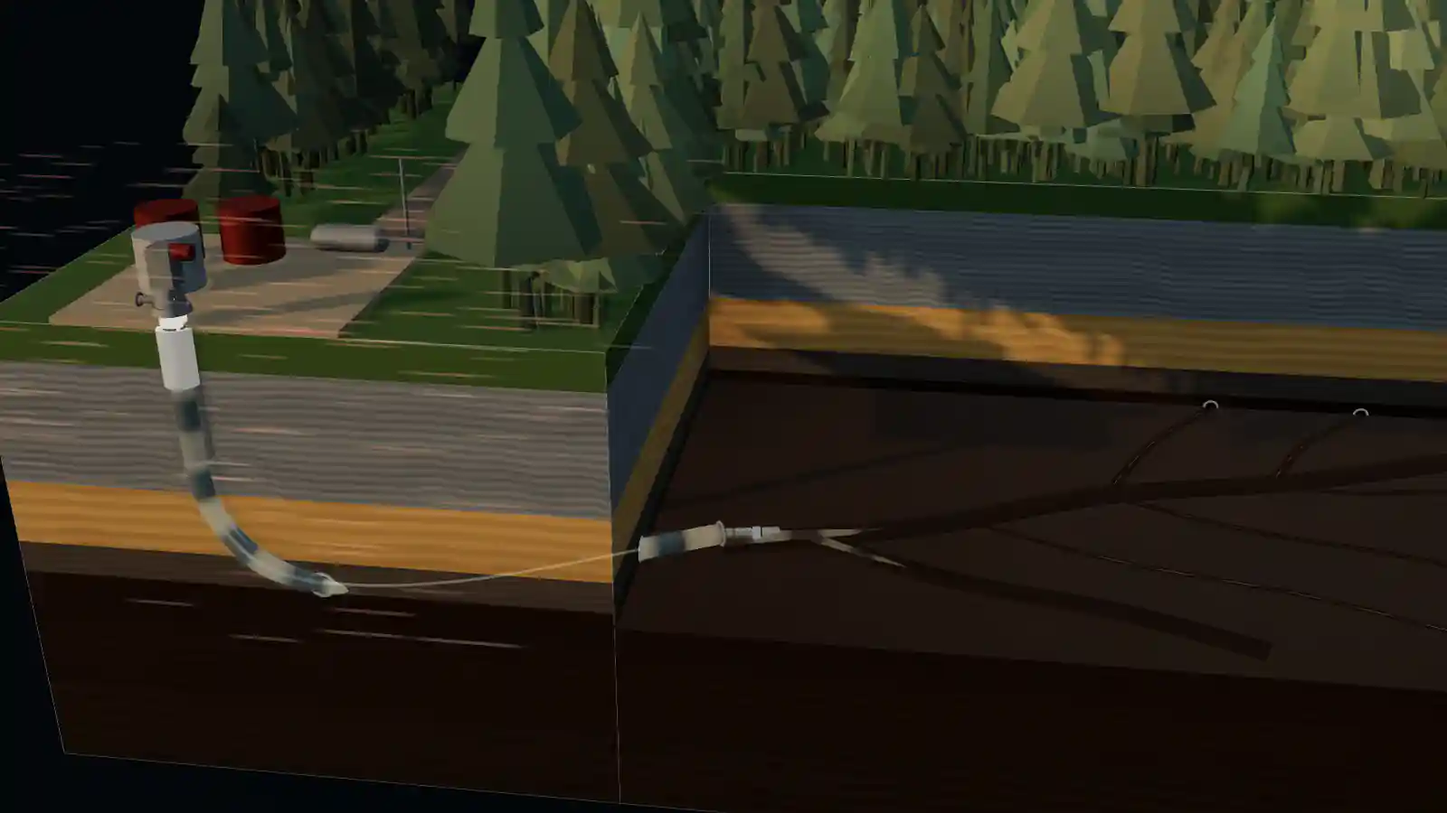
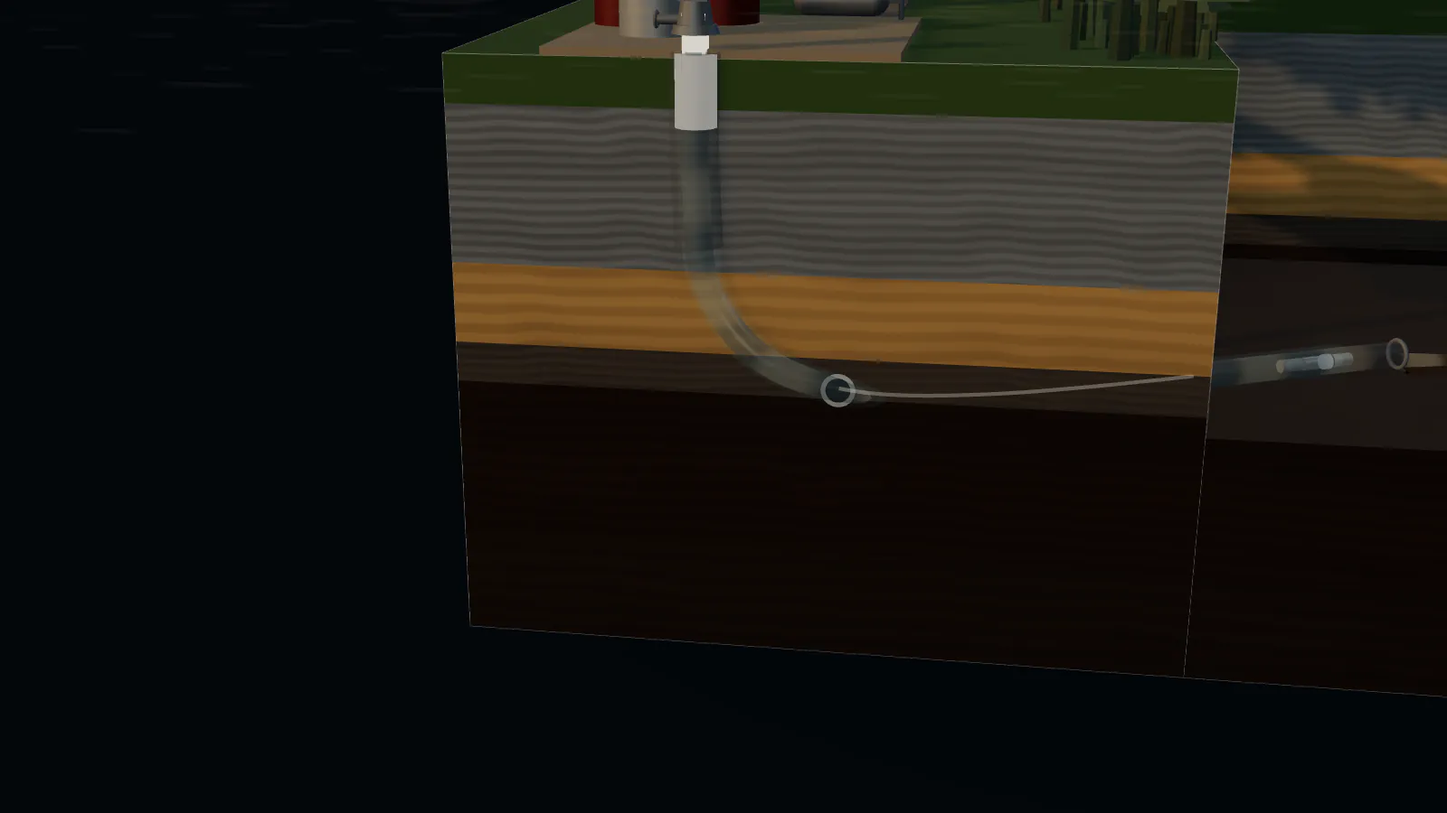
feat(hero): round-11 — Kyle's chapter-0 walkthrough fixes + formation truth pass
- hero CTA pair removed (header CHECK YOUR WELL FIT appears on scroll, side rail + qualifier
  own the paths); chips row carries the closing beat, mobile stack rebalanced
- Yotin header logomark in colour: warm brand stroke full colour, cool stroke sand pre-signal
  via a fitted feColorMatrix (#yotin-presignal) - the teal still ARRIVES when the circuit
  closes; one-shot 880ms load animation (mark wipe + staggered copy), reduced-motion and
  stills-path safe
- OHML fishbone legible in ch0: bore-rim and leg/trunk albedo lifted, chevrons warmed, flow
  multipliers 0.35/0.25 -> 0.45/0.42 - no emissive, dark chapters untouched
- WellFi now sits INSIDE the intermediate (Kyle's authored placement): the shoe was landed
  deeper past the tool (heel moved down-trunk) so the collar stays within 0.06 units of every
  authored pose; standoff measures exactly 10.0% of the intermediate - the qualifier's own
  rule read from the other end; boot bug fixed (null landing no longer proposed open hole);
  COUPLING gains inside-intermediate 0.45; rail tally renamed "WellFi - in casing" and
  reordered as a true depth tally
- formation labels corrected for the Clearwater fairway (completions-engineer verified,
  Kyle's strat column confirms): Ellerslie -> McMurray (Lower Mannville) [the must-fix],
  Colorado Shale -> Colorado Gp - Joli Fou Shale (seal), Middle Mudstone -> Clearwater
  Mudstone; Grand Rapids deliberately omitted (Kyle's call, schematic qualifier covers it)
[…]

diff --git a/src/world/wellPath.js b/src/world/wellPath.js
@@ -12,10 +12,17 @@ export const RADII = { surfaceCollar: 0.175, casedShell: 0.127, cased: 0.100, op
 export const Z_FACE = 5; // front cut face — the cased bore rides ON it (half-proud)
 export const BORE_LIFT = 0.0; // bore centreline ON the bench plane (spec §3) — the trough is drawn as a flattened dark slot, not a raised mound
 
-export const WELLFI_VIEW_IDS = ['outside-intermediate', 'below-pump'];
-export const DEFAULT_WELLFI_VIEW = 'outside-intermediate';
-export const WELLFI_BELOW_PUMP_CASING_PARAM = 0.5;   // inside the 7-in string
-export const WELLFI_OUTSIDE_INTERMEDIATE_PARAM = 0.03; // on the open-hole trunk at the heel
+export const WELLFI_VIEW_IDS = ['inside-intermediate', 'below-pump', 'outside-intermediate'];
+// Round 11 (Kyle, lead design decision): the landing page shows WellFi INSIDE the intermediate — on the
+// tubing above the shoe — not in open hole below it. The collar did not move in world space (chapters 2–4 are
+// authored around it, chapter 2 is an fov-18 close-up on it); the intermediate was landed deeper instead, so
+// the heel/shoe now sits ~10 % of the intermediate's length BELOW the collar. That is the same standoff rule
+// the qualifier states ("roughly 10 % of the intermediate's length of standoff above the shoe"), read from the
+// other end.
+export const DEFAULT_WELLFI_VIEW = 'inside-intermediate';
+export const WELLFI_INSIDE_INTERMEDIATE_PARAM = 0.90; // on the cased string, the standoff line above the shoe
+export const WELLFI_BELOW_PUMP_CASING_PARAM = 0.5;   // inside the 7-in string, below a shallow pump landing
+export const WELLFI_OUTSIDE_INTERMEDIATE_PARAM = 0.03; // on the open-hole trunk, just below the shoe (the "deeper" answer)
 
 const v = (x, y, z) => new Vector3(x, y, z);
 
@@ -57,7 +64,9 @@ function crossing(curve, plane, samples = 200, axis = 'z') {
 
 export function buildWellPaths() {
   const wellhead = v(-5.2, 0.05, Z_FACE);
-  const heel = v(-0.9, BENCH_Y + 0.12, 3.4);
+  // The heel is where the intermediate lands. It sits down the trunk far enough that the authored collar
+  // (cased u = 0.90) has ~10 % of the intermediate's length of standoff above the shoe (round 11).
+  const heel = v(0.03, BENCH_Y + 0.12, 3.04);
   const cased = new CatmullRomCurve3([
     wellhead.clone(), v(-5.2, -0.9, Z_FACE), v(-5.08, -1.7, Z_FACE), v(-4.45, -2.25, Z_FACE), v(-3.1, heel.y, 4.6), heel.clone(),
   ], false, 'catmullrom', 0.5);
@@ -81,6 +90,7 @@ export function buildWellPaths() {
 
   const shoe = cased.getPointAt(1);
   const wellfiTools = {
+    insideIntermediate: toolAnchor(cased, WELLFI_INSIDE_INTERMEDIATE_PARAM),
     outsideIntermediate: toolAnchor(openHole, WELLFI_OUTSIDE_INTERMEDIATE_PARAM),
     belowPump: toolAnchor(cased, WELLFI_BELOW_PUMP_CASING_PARAM),
   };
@@ -113,5 +123,6 @@ export function buildWellPaths() {
 
 export function getWellFiPlacement(paths, view) {
   if (view === 'below-pump') return { ...paths.wellfiTools.belowPump, id: 'below-pump', label: 'WellFi', tone: 'primary' };
-  return { ...paths.wellfiTools.outsideIntermediate, id: 'outside-intermediate', label: 'WellFi', tone: 'primary' };
+  if (view === 'outside-intermediate') return { ...paths.wellfiTools.outsideIntermediate, id: 'outside-intermediate', label: 'WellFi', tone: 'primary' };
+  return { ...paths.wellfiTools.insideIntermediate, id: 'inside-intermediate', label: 'WellFi', tone: 'primary' };
 }

diff --git a/styles.css b/styles.css
@@ -169,6 +169,30 @@ a { color: inherit; text-decoration: none; }
   line-height: 1;
   letter-spacing: 0.04em;
 }
+/* First paint only (Kyle, round 11): the wind strokes wipe in left-to-right — the direction the mark reads —
+   and the wordmark and tagline follow. Time-based, one shot, no idle loop, done in 900 ms. It is a pure CSS
+   entrance so it costs nothing on the world path and nothing to the stills path's byte budget; both the
+   reduced-motion query and html.stills-on switch it off entirely. */
+@media (prefers-reduced-motion: no-preference) {
+  /* fill: backwards, never forwards — .site-header[data-scrolled] .brand-mini-copy small { opacity: 0 }
+     must keep winning once the entrance has finished. */
+  .brand-mini img { animation: yotin-mark-in 760ms cubic-bezier(0.16, 1, 0.3, 1) backwards; }
+  .brand-mini-copy strong { animation: yotin-brand-rise 520ms cubic-bezier(0.16, 1, 0.3, 1) 240ms backwards; }
+  .brand-mini-copy small { animation: yotin-brand-rise 520ms cubic-bezier(0.16, 1, 0.3, 1) 360ms backwards; }
+}
+html.stills-on .brand-mini img,
+html.stills-on .brand-mini-copy strong,
+html.stills-on .brand-mini-copy small { animation: none; }
+@keyframes yotin-mark-in {
+  from { opacity: 0; clip-path: inset(0 100% 0 0); }
+  40%  { opacity: 1; }
+  to   { opacity: 1; clip-path: inset(0 0 0 0); }
+}
+@keyframes yotin-brand-rise {
+  from { opacity: 0; transform: translateY(5px); }
+  to   { opacity: 1; transform: none; }
+}
+
 .site-header[data-scrolled] .brand-mini { transform: scale(0.86); transform-origin: left center; }
 .site-header[data-scrolled] .brand-mini-copy small { opacity: 0; }
 
@@ -289,7 +313,10 @@ a { color: inherit; text-decoration: none; }
   flex-wrap: wrap;
   gap: 8px;
   max-width: 560px;
-  margin: 26px 0 0;
+  /* Last row of the hero block since the duplicated CTA pair came out (round 11):
+     it carries the breathing the buttons used to provide, so the copy column still
+     lands as a composed stack rather than stopping short. */
+  margin: 30px 0 6px;
   padding: 0;
   list-style: none;
 }
@@ -311,7 +338,6 @@ a { color: inherit; text-decoration: none; }
 }
 .proof-chips i { color: var(--ember); font-size: 15px; }
 
-.hero-actions { display: flex; flex-wrap: wrap; gap: 16px; margin-top: 32px; }
 
 .button {
   min-height: 58px;
@@ -333,17 +359,6 @@ a { color: inherit; text-decoration: none; }
 .button-primary:hover { background: var(--ember-lit); box-shadow: 0 12px 34px -14px rgba(242, 118, 34, 0.9); }
 .button-secondary { border-color: var(--line-strong); background: rgba(3, 7, 11, 0.55); color: var(--sand); }
 .button-secondary:hover { border-color: var(--sand); color: var(--white); }
-
-.hero-actions .button {
-  min-width: 236px;
-  min-height: 62px;
-  border-radius: 2px;
-  font-family: var(--font-mono);
-  font-size: 14px;
-  font-weight: 600;
-  letter-spacing: 0.08em;
-  text-transform: uppercase;
-}
 
 /* Scene ------------------------------------------------------------------ */
 
@@ -1784,8 +1799,6 @@ a { color: inherit; text-decoration: none; }
 }
 
 @media (max-width: 560px) {
-  .hero-actions { flex-direction: column; align-items: stretch; }
-  .hero-actions .button { width: 100%; min-width: 0; }
   .hero-message h1 { font-size: clamp(42px, 12.5vw, 56px); }
   .proof-chips { max-width: 100%; }
   .hero-scene { width: 880px; right: -330px; }

diff --git a/test/world-geometry.test.js b/test/world-geometry.test.js
@@ -67,11 +67,23 @@ describe('well geometry', () => {
     assert.ok(casedMouth && casedMouth.plane === 'left', 'cased bore mouth on the notch wall');
     assert.ok(Math.abs(casedMouth.point.x - layout.NOTCH.minX) < 0.03);
   });
-  test('the candle (default view) is at the open-hole anchor, on the bench near the x = -1.6 wall', () => {
+  // Round 11 (Kyle): the landing page shows WellFi INSIDE the intermediate. The collar stayed put in world
+  // space (chapter 2 is an fov-18 close-up on it); the intermediate was landed deeper so the shoe is now below
+  // it, with the standoff the qualifier states.
+  test('the candle (default view) is inside the intermediate, on the bench near the x = -1.6 wall', () => {
     const p = wellPath.getWellFiPlacement(paths, wellPath.DEFAULT_WELLFI_VIEW);
-    assert.equal(p.id, 'outside-intermediate');
+    assert.equal(p.id, 'inside-intermediate');
     assert.ok(p.position.x > layout.NOTCH.minX && p.position.x < layout.NOTCH.minX + 1.2, `x ${p.position.x}`);
     assert.ok(Math.abs(p.position.y - (layout.BENCH_Y + 0.12)) < 0.1);
+  });
+  test('the default collar sits above the shoe with ~10 % of the intermediate as standoff', () => {
+    const p = wellPath.getWellFiPlacement(paths, wellPath.DEFAULT_WELLFI_VIEW);
+    const standoff = paths.cased.getLength() * (1 - wellPath.WELLFI_INSIDE_INTERMEDIATE_PARAM);
+    assert.ok(Math.abs(standoff / paths.cased.getLength() - 0.10) < 0.02, `standoff share ${standoff / paths.cased.getLength()}`);
+    assert.ok(p.position.distanceTo(paths.shoe) > 0.5, 'the collar is clear of the shoe');
+    // and the "deeper" answer still puts the collar BELOW the shoe, in open hole
+    const outside = wellPath.getWellFiPlacement(paths, 'outside-intermediate');
+    assert.ok(outside.position.x > paths.shoe.x, 'outside-intermediate is past the shoe, down the open-hole trunk');
   });
   test('the below-pump placement is inside the intermediate string on the front face', () => {
     const p = wellPath.getWellFiPlacement(paths, 'below-pump');
@@ -90,6 +102,16 @@ describe('chapter 6 pump marker vs the standoff line', () => {
   test('PUMP_U.deeper > STANDOFF_U > PUMP_U.shallower', () => {
     assert.ok(builder.PUMP_U.deeper > builder.STANDOFF_U, `deeper ${builder.PUMP_U.deeper} must be below the standoff line ${builder.STANDOFF_U}`);
     assert.ok(builder.STANDOFF_U > builder.PUMP_U.shallower, `shallower ${builder.PUMP_U.shallower} must be above the standoff line ${builder.STANDOFF_U}`);
+  });
+  // wellBuilder.js may not import the world modules (one-chunk budget), so it RESTATES the authored default
+  // placement. If the two drift, an unanswered qualifier silently re-proposes the open-hole configuration.
+  test('wellBuilder restates the authored default placement', () => {
+    const fs = require('node:fs');
+    const path = require('node:path');
+    const src = fs.readFileSync(path.join(__dirname, '..', 'src', 'world', 'wellBuilder.js'), 'utf8');
+    const m = src.match(/const DEFAULT_VIEW = '([a-z-]+)'/);
+    assert.ok(m, 'wellBuilder DEFAULT_VIEW not found');
+    assert.equal(m[1], wellPath.DEFAULT_WELLFI_VIEW);
   });
   test('the 3D marker uses the same parameters as the downloaded schematic', () => {
     const fs = require('node:fs');

diff --git a/src/world/layout.js b/src/world/layout.js
@@ -19,12 +19,12 @@ export const BENCH_Y = PAY_TOP - 0.15; // -2.55
 // Colours follow the Bluesky-derived material discipline (near-black wet bitumen pay, sharp cut, no bevels).
 export const STRATA = [
   { name: 'topsoil',        label: 'Boreal topsoil',        topY: 0.0,   bottomY: -0.35, color: '#3f5a2e', roughness: 0.95 },
-  { name: 'colorado',       label: 'Colorado Shale (seal)', topY: -0.35, bottomY: -1.5,  color: '#6f787e', roughness: 0.9,  bed: { freq: 38, depth: 0.34, phase: 0.0 } },
+  { name: 'colorado',       label: 'Colorado Gp — Joli Fou Shale (seal)', topY: -0.35, bottomY: -1.5,  color: '#6f787e', roughness: 0.9,  bed: { freq: 38, depth: 0.34, phase: 0.0 } },
   { name: 'upperSand',      label: 'Clearwater Upper Sand', topY: -1.5,  bottomY: -2.1,  color: '#a8874f', roughness: 0.92, bed: { freq: 22, depth: 0.24, phase: 1.1 } },
-  { name: 'middleMudstone', label: 'Middle Mudstone',       topY: -2.1,  bottomY: PAY_TOP, color: '#4a4540', roughness: 0.88, bed: { freq: 44, depth: 0.3, phase: 0.6 } },
+  { name: 'middleMudstone', label: 'Clearwater Mudstone',       topY: -2.1,  bottomY: PAY_TOP, color: '#4a4540', roughness: 0.88, bed: { freq: 44, depth: 0.3, phase: 0.6 } },
   { name: 'lowerSand',      label: 'Clearwater Lower Sand', topY: PAY_TOP, bottomY: -3.6, color: '#2b1e14', roughness: 0.45, bed: { freq: 26, depth: 0.22, phase: 2.3 } },
 ];
-export const LOWER = { name: 'ellerslie', label: 'Ellerslie', topY: -3.6, bottomY: SLAB.baseY, color: '#241a10', roughness: 0.6, bed: { freq: 20, depth: 0.28, phase: 0.6 } };
+export const LOWER = { name: 'ellerslie', label: 'McMurray (Lower Mannville)', topY: -3.6, bottomY: SLAB.baseY, color: '#241a10', roughness: 0.6, bed: { freq: 20, depth: 0.28, phase: 0.6 } };
 
 // The Colorado seal band — the conductive bed that flattens and dims the field above it (spec §3, field).
 export const SEAL = { topY: STRATA[1].topY, bottomY: STRATA[1].bottomY };
@@ -59,7 +59,11 @@ export const COLORS = {
   casing: '#6b7d8a',
   casingShell: '#7dd3e8',
   trough: '#0f0a07',      // dark rock-walled open-hole bore (negative), not a pipe — darker than the bench (#3a2a1e)
-  boreRim: '#241911',     // rock lip along an exposed bore — ≈ 0.6× the bench albedo so the slot reads as shadow, not a sand strip
+  // Rock lip along an exposed bore. Round 11 (Kyle: "it is hard to see the OHML fishbone, it is quite dark"):
+  // at 0.6× the bench albedo the six laterals disappeared in the chapter-0 pose — the raking golden-hour key
+  // had nothing to catch. Raised to ≈ bench albedo, so the lip's curved crown is what draws the fishbone while
+  // the trough inside it stays the dark slot. Albedo only — no emissive — so the darkest chapters are unchanged.
+  boreRim: '#3c2c1e',
   void: '#03070b',
   sunWarm: '#ffd9a8',
   goldenHour: '#ffc98a',

diff --git a/src/world/wellBuilder.js b/src/world/wellBuilder.js
@@ -21,6 +21,7 @@ export const FOG_WARM = '#140c07';
 export const PUMP_U = { shallower: 0.42, deeper: 0.96 };
 export const STANDOFF_U = 0.9;                     // relative — "10 % of intermediate" above the shoe
 const WITNESS_COOL = '#d9e5ef', WITNESS_WARM = '#e6c9a6';
+const DEFAULT_VIEW = 'inside-intermediate';        // wellPath.DEFAULT_WELLFI_VIEW (restated: no world imports here)
 
 // Derive the handful of three.js classes from objects the island already holds (no 'three' import here).
 export function threeFromWorld(island) {
@@ -131,7 +132,11 @@ export function createWellBuilder(island, THREE, { scene = null } = {}) {
   };
 
   // Collar glides separately into the proposed configuration (island.setView snaps; we ease from the old pose).
-  function anchorFor(view) { return view === 'below-pump' ? paths.wellfiTools.belowPump : paths.wellfiTools.outsideIntermediate; }
+  function anchorFor(view) {
+    if (view === 'below-pump') return paths.wellfiTools.belowPump;
+    if (view === 'outside-intermediate') return paths.wellfiTools.outsideIntermediate;
+    return paths.wellfiTools.insideIntermediate;
+  }
   function moveTool(view) {
     if (island.state.view === view) return;
     glide.from.copy(tool.group.position); glide.q0.copy(tool.group.quaternion);
@@ -175,12 +180,17 @@ export function createWellBuilder(island, THREE, { scene = null } = {}) {
   // Coupling: the caption for a shallower landing says "inside casing — attenuated coupling", so the world has to
   // show it. Steel around the emitter shorts a large part of the dipole; open hole couples straight into the
   // formation. This is the ratio the candle and the field are scaled by (round 7, engineering-truth review).
-  const COUPLING = { 'below-pump': 0.45, 'outside-intermediate': 1 };
+  // 'inside-intermediate' is the authored landing-page placement (round 11) and is steel-shorted like
+  // 'below-pump': both sit on the tubing inside the intermediate.
+  const COUPLING = { 'inside-intermediate': 0.45, 'below-pump': 0.45, 'outside-intermediate': 1 };
   let coupling = 1;
   function applyLanding(landing, hasLength) {
     standoff.visible = Boolean(hasLength) || Boolean(landing);
     placeMarker(landing);
-    const view = landing === 'shallower' ? 'below-pump' : 'outside-intermediate';
+    // Unanswered means unanswered: with no landing the collar stays at the AUTHORED landing-page placement —
+    // inside the intermediate (round 11). Before this it fell through to 'outside-intermediate' on every reset,
+    // so the world quietly proposed the open-hole configuration to a visitor who had answered nothing.
+    const view = landing == null ? DEFAULT_VIEW : (landing === 'shallower' ? 'below-pump' : 'outside-intermediate');
     coupling = COUPLING[view];
     moveTool(view);
   }

diff --git a/index.html b/index.html
@@ -232,6 +232,21 @@
 
 <body id="top" data-chatfi-api="https://chatfi-server-851855129205.us-central1.run.app">
   <a class="skip-link" href="#main">Skip to content</a>
+  <!-- Pre-signal Yotin logomark filter (spec §13b, one-candle rule). The brand mark is two wind strokes: a
+       warm one (#EC6B24 — the brand's own ember) and a cool one (#3FB4C3 teal). Cyan/teal in the logomark is
+       reserved for AFTER the circuit closes, so before the signal arrives the mark renders its WARM half in
+       full brand colour and its COOL half in sand. This is a single linear colour map (no offsets, sRGB), fitted
+       so brand-orange maps to itself, brand-teal maps to sand #d5c9b3, and white maps to white — which makes
+       every antialiased pixel between them land correctly, and leaves the dark keyline dark. When
+       html.signal-received is set the filter is dropped and the teal arrives. -->
+  <svg class="brand-filter" aria-hidden="true" focusable="false" width="0" height="0" style="position:absolute;width:0;height:0;overflow:hidden">
+    <filter id="yotin-presignal" color-interpolation-filters="sRGB">
+      <feColorMatrix type="matrix" values="-0.67137  4.70810 -3.03672 0 0
+                                           -0.23399  1.65913 -0.42514 0 0
+                                            0.17828 -0.50220  1.32392 0 0
+                                            0        0        0       1 0"/>
+    </filter>
+  </svg>
   <div class="scroll-rail" aria-hidden="true"></div>
   <!-- The persistent world: one fixed canvas behind the semantic DOM (spec §2). Decorative — every word,
        control and claim lives in the DOM below. Hidden unless the capability gate stamps html.world-on. -->
@@ -316,12 +331,9 @@
               <li><i class="ph ph-plugs" aria-hidden="true"></i> MODBUS Ready</li>
               <li><i class="ph ph-lightning" aria-hidden="true"></i> Rapid Deployment</li>
             </ul>
-            <!-- Primary CTA points at the qualifier, not at a scroll anchor:
-                 a hero button that only scrolls 400px converts nothing. -->
-            <div class="hero-actions" data-hero-step>
-              <a class="button button-primary" href="#contact">Check your well fit <i class="ph ph-arrow-right" aria-hidden="true"></i></a>
-              <a class="button button-secondary" href="#wellfi">Explore WellFi <i class="ph ph-arrow-right" aria-hidden="true"></i></a>
-            </div>
+            <!-- No hero CTA row (round 11, Kyle): the header's CHECK YOUR WELL FIT and ASK CHATFI are the
+                 one-click paths from any scroll position, and the qualifier owns the bottom of the page. A
+                 duplicated pair here only pushed the chips down and stole the eye from the world. -->
           </div>
         </div>
 

diff --git a/src/chapters.js b/src/chapters.js
@@ -18,7 +18,7 @@ export const CHAPTERS = [
 ];
 
 // Camera poses (9): one per chapter, two for signal (collar → the surface references once the circuit stage is in view), two for deployment. Targets: the candle at the heel ≈ (-0.67,-2.43,3.32)
-// (chapters 2 and 4 aim here — the tool lives at the open-hole anchor), wellhead (-5.2, 0.05, 5).
+// (chapters 2 and 4 aim here — the tool lives at the inside-intermediate anchor, cased u 0.90, since Kyle's ch0 direction; the shoe was landed deeper past it so this target never moved), wellhead (-5.2, 0.05, 5).
 export const POSES = [
   { id: 'surface',      position: [27.8, 22.0, 30.9], target: [-1.8, -1.3, 2.2],  fov: 20, mobile: { position: [24.0, 22.5, 30.5], target: [-1.2, -3.2, 2.2], fov: 30 } },
   { id: 'descent',      position: [-0.2, 2.3, 15.2],  target: [-4.9, -1.2, 5.0],  fov: 28, mobile: { position: [-0.6, 1.4, 16.5], target: [-4.9, -2.4, 5.0], fov: 38 } },
@@ -30,7 +30,7 @@ export const POSES = [
   { id: 'deployment-a', position: [-0.8, -0.4, 12.3], target: [-6.0, -2.1, 5.4],  fov: 26, mobile: { position: [-1.6, -1.2, 12.5], target: [-4.4, -3.4, 5.2], fov: 34 } }, // the instrument: cased string u 0.3–0.55 on the front face, landing right of centre (round 2)
   { id: 'deployment-b', position: [4.6, 1.2, 15.8],   target: [0.6, -2.5, 2.4],   fov: 28, mobile: { position: [4.0, 2.0, 21.0], target: [0.4, -2.8, 2.4], fov: 38 } },
   { id: 'yotin',        position: [-6.5, 8.0, 15.0],  target: [-4.6, -0.3, 3.6],  fov: 34, mobile: { position: [-6.0, 5.8, 19.5], target: [-4.6, -1.2, 3.6], fov: 44 } }, // the pad + wind in the upper 60 vh band, paper below (round 2) // lower, flatter: the island low in the rise band, strokes read as wind over the pad (round 2)
-  { id: 'fit',          position: [-3.0, 1.5, 17.0],  target: [-5.0, -2.5, 5.0],  fov: 26, mobile: { position: [-2.6, 1.9, 20.5], target: [-4.6, -2.9, 5.0], fov: 36 } }, // BOTH proposed placements are framed in the free right column — inside-the-tubing (-3.83,-2.38,4.86) and the open-hole anchor (-0.67,-2.45,3.32) — so the verdict's candle never lands behind the qualifier column (pose search, round 6)
+  { id: 'fit',          position: [-3.0, 1.5, 17.0],  target: [-5.0, -2.5, 5.0],  fov: 26, mobile: { position: [-2.6, 1.9, 20.5], target: [-4.6, -2.9, 5.0], fov: 36 } }, // BOTH proposed placements are framed in the free right column — inside-the-tubing (-3.83,-2.38,4.86) and the below-shoe/open-hole anchor (-0.67,-2.45,3.32; the authored default now sits inside the intermediate at ≈(-0.64,-2.43,3.38)) — so the verdict's candle never lands behind the qualifier column (pose search, round 6)
 ];
 
 export const CHAPTER_IDS = CHAPTERS.map((c) => c.id);

diff --git a/src/world/island.js b/src/world/island.js
@@ -1,5 +1,6 @@
 // Assembles the world (spec §3): terrain (bench topology), forest, well system, the WellFi tool at the
-// open-hole anchor (the candle), the wellhead receiver ring, the lease pad, and the candle field. Exposes a
+// authored collar anchor inside the intermediate (the candle, round 11), the wellhead receiver ring, the lease
+// pad, and the candle field. Exposes a
 // pure update(t, elapsed, channels) so the conductor drives it from chapter state. No bullet pulse; the 12 s
 // island cycle only shapes ambient light. Flow chevrons are sand-tinted at the surface and muted where the
 // chapter's `flow` channel says so.
@@ -32,8 +33,10 @@ export function buildIsland({ tier = 'high', view = DEFAULT_WELLFI_VIEW } = {}) 
   const casedFlow = createPulseMaterial({ base: { color: COLORS.casing, roughness: 0.35, metalness: 0.85, transparent: true, opacity: 1 }, pulseColor: SAND_FLOW, flowCount: 10, flowColor: SAND_FLOW });
   // Open-hole bores: base at or below the pay so the slot floor never out-lights the bench (round 2); the
   // chevrons stay readable as dim flow inside a dark slot, not a lit ribbon.
-  const trunkFlow = createPulseMaterial({ base: { color: '#2b1e14', roughness: 0.9, metalness: 0 }, pulseColor: SAND_FLOW, flowCount: 12, flowColor: '#8a7455' });
-  const legFlow = createPulseMaterial({ base: { color: '#261a11', roughness: 0.9, metalness: 0 }, pulseColor: SAND_FLOW, flowCount: 8, flowColor: '#8a7455' });
+  // Round 11: the leg bores carry a little more of their own albedo and a warmer sand chevron, so the
+  // fishbone reads in the chapter-0 pose. Still sand/steel, still below the bench — no cyan, no emissive.
+  const trunkFlow = createPulseMaterial({ base: { color: '#33241a', roughness: 0.9, metalness: 0 }, pulseColor: SAND_FLOW, flowCount: 12, flowColor: '#a48a63' });
+  const legFlow = createPulseMaterial({ base: { color: '#312217', roughness: 0.9, metalness: 0 }, pulseColor: SAND_FLOW, flowCount: 8, flowColor: '#a48a63' });
 
   const terrain = buildTerrain();
   const forest = buildForest(tier);
@@ -98,8 +101,8 @@ export function buildIsland({ tier = 'high', view = DEFAULT_WELLFI_VIEW } = {}) 
     const flow = channels.flow ?? L;
     const flowTime = elapsed % 20;
     casedFlow.setFlow(0.9 * flow, flowTime);
-    trunkFlow.setFlow(0.35 * flow, flowTime);
-    legFlow.setFlow(0.25 * flow, flowTime);
+    trunkFlow.setFlow(0.45 * flow, flowTime);
+    legFlow.setFlow(0.42 * flow, flowTime); // round 11: the legs were the quietest thing in the hero pose
     const cut = Math.max(channels.cutaway, 0);
     casedFlow.setCutaway(1 - 0.72 * cut, cut < 0.05);
     tool.update(channels.candle, state.toolFocus);

diff --git a/src/styles/world.css b/src/styles/world.css
@@ -120,18 +120,18 @@ html.world-on .company-section .company-grid { background: var(--paper); border-
 @media (max-height: 560px) { html.world-on .rise-band { height: 40vh; } }
 
 /* Phones (spec §4 S0 mobile): the island owns the upper half of the first screen — the mobile surface pose frames
-   the pad there — and the copy seats on a dark lower band: wordmark, headline, the two CTAs, then the lede and
-   proof chips on scroll. Order is visual only (flex order); DOM and reading order are unchanged. The scroll cue
-   yields to the fixed-layer motion toggle. */
+   the pad there — and the copy seats on a dark lower band: wordmark, headline, then the lede and proof chips on
+   scroll (the hero CTA pair came out in round 11; the header's fit/ChatFi buttons are the one-click paths).
+   Order is visual only (flex order); DOM and reading order are unchanged. The scroll cue yields to the
+   fixed-layer motion toggle. */
 @media (max-width: 820px) {
   html.world-on .scroll-cue { display: none; }
   html.world-on .hero-scrim { background: linear-gradient(to bottom, rgba(3, 7, 11, 0.5) 0%, rgba(3, 7, 11, 0.06) 16%, rgba(3, 7, 11, 0.04) 40%, rgba(3, 7, 11, 0.74) 58%, rgba(3, 7, 11, 0.88) 100%); }
   html.world-on .hero-message { display: flex; flex-direction: column; align-items: flex-start; padding-top: 42vh; }
-  html.world-on .hero-message > .hero-actions, html.world-on .hero-message > .hero-lede, html.world-on .hero-message > .proof-chips { align-self: stretch; }
+  html.world-on .hero-message > .hero-lede, html.world-on .hero-message > .proof-chips { align-self: stretch; }
   html.world-on .hero-message > .hero-wordmark { order: 1; }
   html.world-on .hero-message > h1 { order: 2; }
-  html.world-on .hero-message > .hero-actions { order: 3; margin-top: 4px; }
-  html.world-on .hero-message > .hero-lede { order: 4; margin-top: 26px; }
+  html.world-on .hero-message > .hero-lede { order: 4; margin-top: 22px; }
   html.world-on .hero-message > .proof-chips { order: 5; }
 }
 

diff --git a/src/ui/rail.js b/src/ui/rail.js
@@ -11,11 +11,13 @@ const LABELS = { surface: 'Surface', descent: 'Descent', tool: 'Tool', signal: '
 const ANCHORS = { surface: '#top', descent: '#wellfi', tool: '#wellfi', signal: '#wellfi', deployment: '#insight', yotin: '#company', fit: '#contact' };
 
 // Casing tally by name — lit as the descent passes each mark (exact progress thresholds within chapter 1).
+// Round 11: WellFi is set INSIDE the intermediate, on the tubing above the shoe (wellPath.js —
+// DEFAULT_WELLFI_VIEW). The tally is a depth tally, so the tool now lights BEFORE the shoe, not after it.
 const TALLY = [
   { id: 'surface-casing', label: 'Surface casing', at: 0.12 },
-  { id: 'intermediate-shoe', label: 'Intermediate shoe', at: 0.62 },
-  { id: 'pay-top', label: 'Pay top', at: 0.8 },
-  { id: 'wellfi', label: 'WellFi · open hole', at: 0.98 },
+  { id: 'wellfi', label: 'WellFi · in casing', at: 0.58 }, // same 18 chars as the old 'WellFi · open hole': it fits the rail gutter without truncating, and it is what the qualifier's readback already says ("inside casing, on the tubing")
+  { id: 'intermediate-shoe', label: 'Intermediate shoe', at: 0.72 },
+  { id: 'pay-top', label: 'Pay top', at: 0.88 },
 ];
 
 export function mountRail() {
@@ -100,7 +102,7 @@ export function mountRail() {
     const index = Math.floor(p + 0.002);
     const inSignal = index === 3;
     tally.classList.toggle('is-signal', inSignal);
-    // marker positions along the track: 0 = top (surface), 1 = bottom (tool)
+    // marker positions along the track: 0 = top (surface), 1 = bottom (total depth — the pay)
     const downPos = p < 1 ? 0 : Math.min(1, descent);
     const upPos = p < 3 ? 1 : 1 - returned;
     down.style.setProperty('--pos', downPos.toFixed(3));

diff --git a/src/styles/signal.css b/src/styles/signal.css
@@ -94,7 +94,10 @@
 .journey-list > li[data-hotspot] { cursor: pointer; transition: border-color 200ms ease, background 200ms ease; }
 .journey-list > li.is-hover, .journey-list > li:focus-visible { outline: none; border-color: var(--sand); background: rgba(232, 220, 200, 0.06); }
 
-/* The logomark receives the signal (spec §12): sand/mono until the circuit first closes, then its own colours. */
-html.world-on .brand-mini img, html.world-on .footer-brand img { filter: grayscale(1) sepia(0.35) brightness(1.05); transition: filter 400ms ease; }
+/* The logomark receives the signal (spec §12/§13b): the mark's WARM stroke carries its own brand ember from
+   first paint (Kyle, round 11: "the Yotin logo on the header isn't in color") while its COOL stroke waits in
+   sand — the one-candle rule reserves teal/cyan for after the circuit closes. #yotin-presignal (index.html)
+   is the linear colour map that does exactly that; dropping it lets the teal arrive. */
+html.world-on .brand-mini img, html.world-on .footer-brand img { filter: url(#yotin-presignal); transition: filter 400ms ease; }
 html.signal-received .brand-mini img, html.signal-received .footer-brand img { filter: none; }
 html.stills-on .brand-mini img, html.stills-on .footer-brand img { filter: none; }
